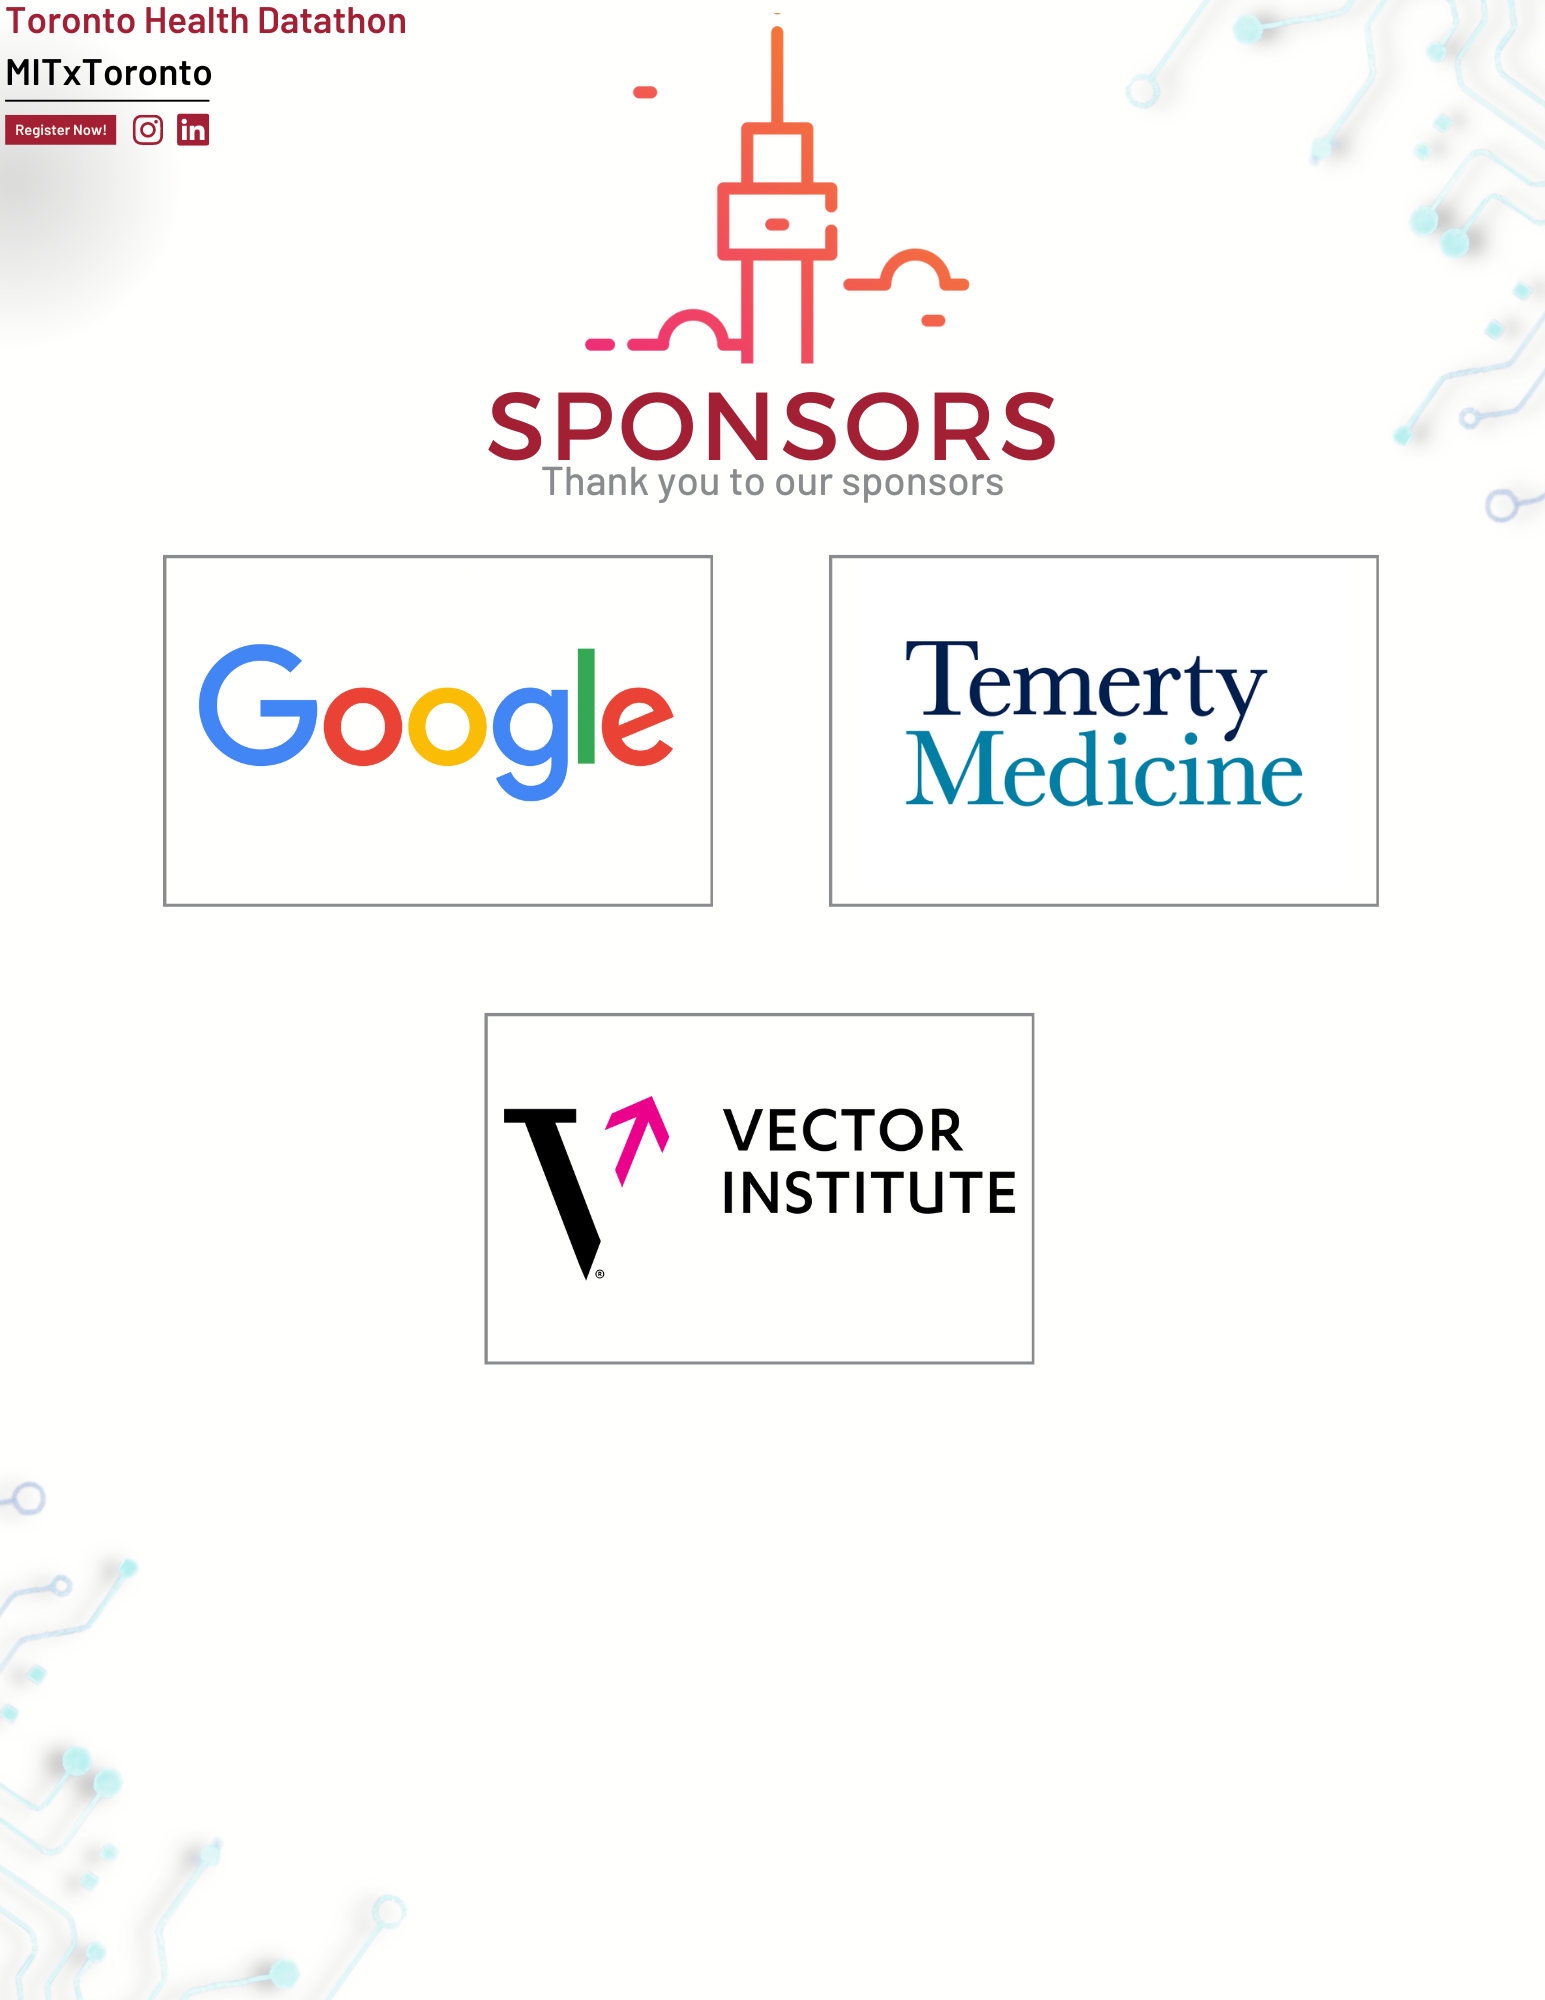
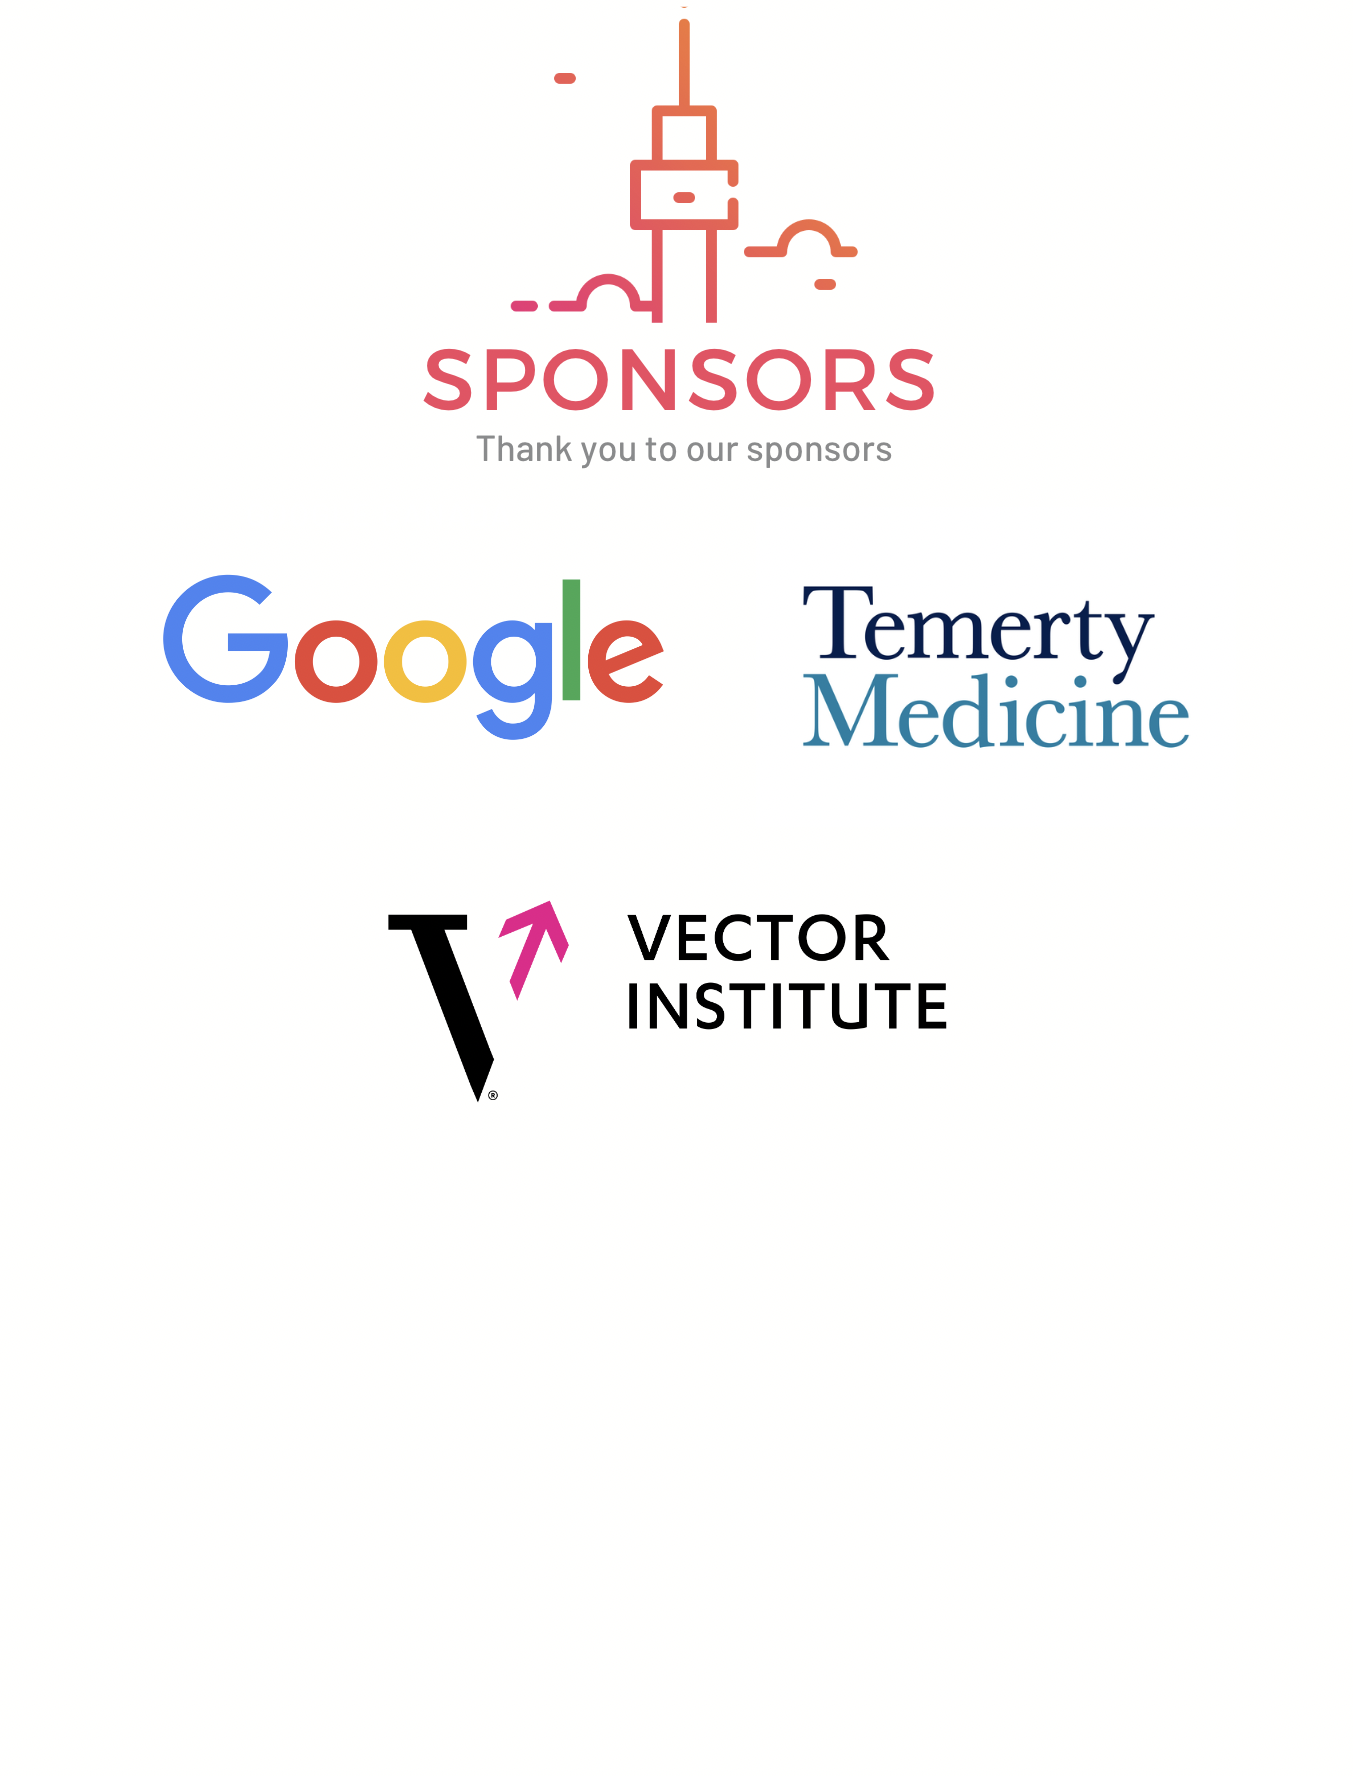
updated higher quality images for schedule, sponsors

diff --git a/index.html b/index.html
@@ -276,7 +276,7 @@
 					<h3>Schedule</h3>
 					<!-- <h4>We listen, we discuss, we advise and develop. We love to learn and use the latest technologies.
 					</h4> -->
-					<img class="schedule1" src="images/EventSchedule.png">
+					<img class="schedule1" src="images/schedule.png">
 					<!-- <img class="schedule2" src="images/day2.png"> -->
 				</div>
 			</div>
@@ -289,7 +289,10 @@
 					<!-- <h3>Sponsors</h3> -->
 					<!-- <h4>We listen, we discuss, we advise and develop. We love to learn and use the latest technologies.
 					</h4> -->
-					<img class="sponsors" src="images/sponsors2.png">
+					<div id="sponsorscontainer">
+						<img class="sponsors" src="images/sponsors.png">
+					</div>
+					
 				</div>
 			</div>
 		</div>

diff --git a/css/style.css b/css/style.css
@@ -206,26 +206,24 @@ body {
 	font-size: 24px;
 }
 
-/* .scheduleHeader {
-	padding: 20px;
-} */
-
 .schedule1 {
 	margin-top: 25px;
 	float: left;
 	width: 95%;
 }
 
-.schedule2 {
-	margin-top: 25px;
-	float: right;
-	width: 49%;
-}
 
 .sponsors {
 	margin-top: 25px;
-	width: 98%;
+	width: 70%;
 	margin-bottom: -175px;
+	/* margin-left: 150px; */
+}
+
+#sponsorscontainer{
+	display: flex;
+	align-items: center;
+	justify-content: center;
 }
 
 
